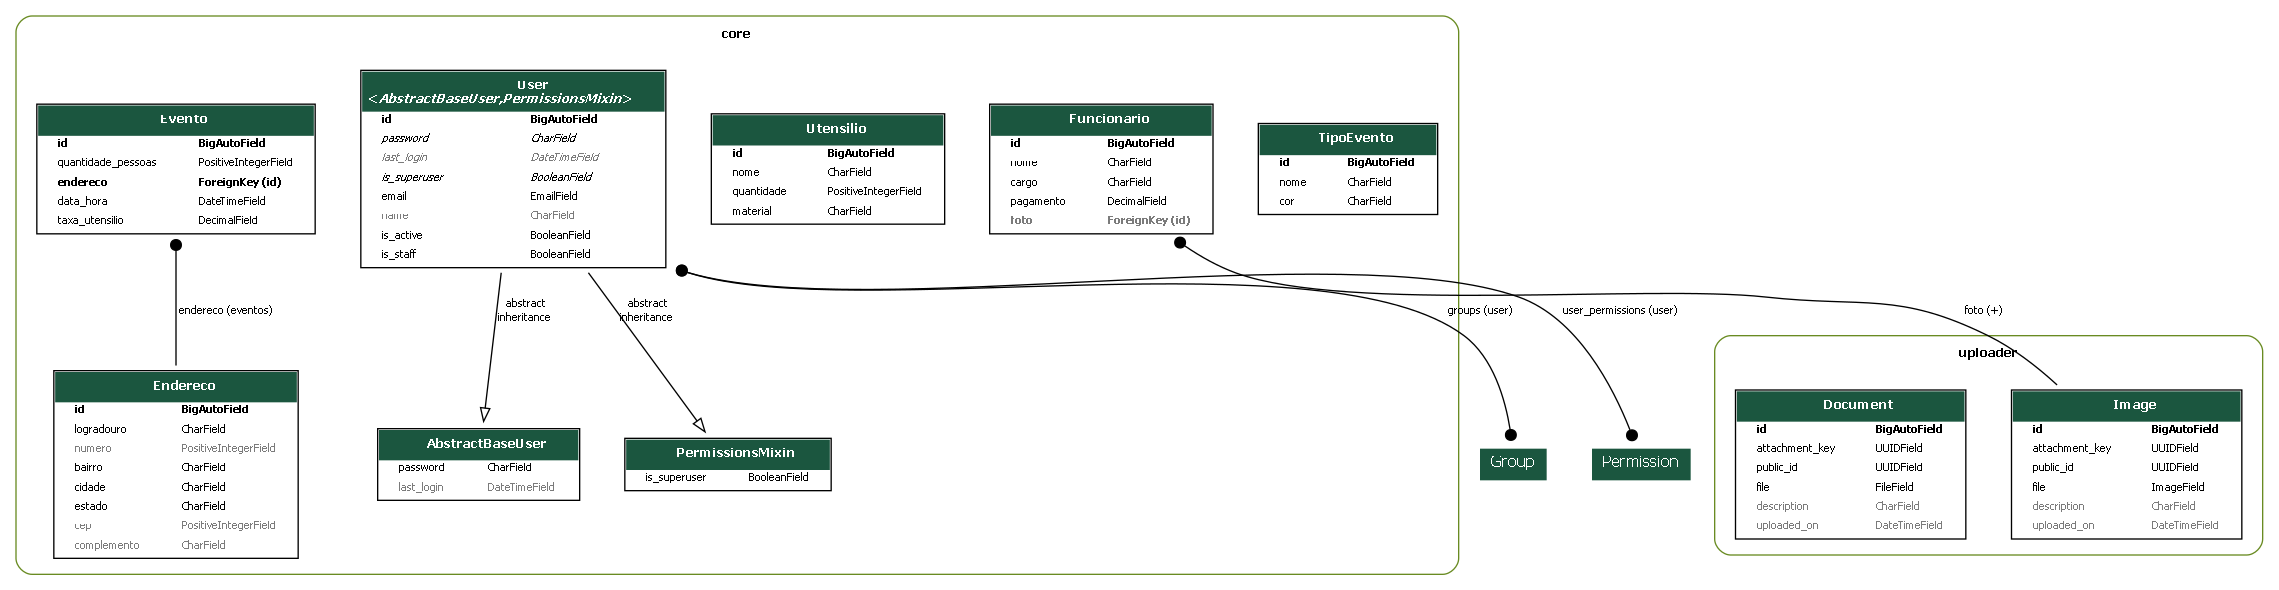
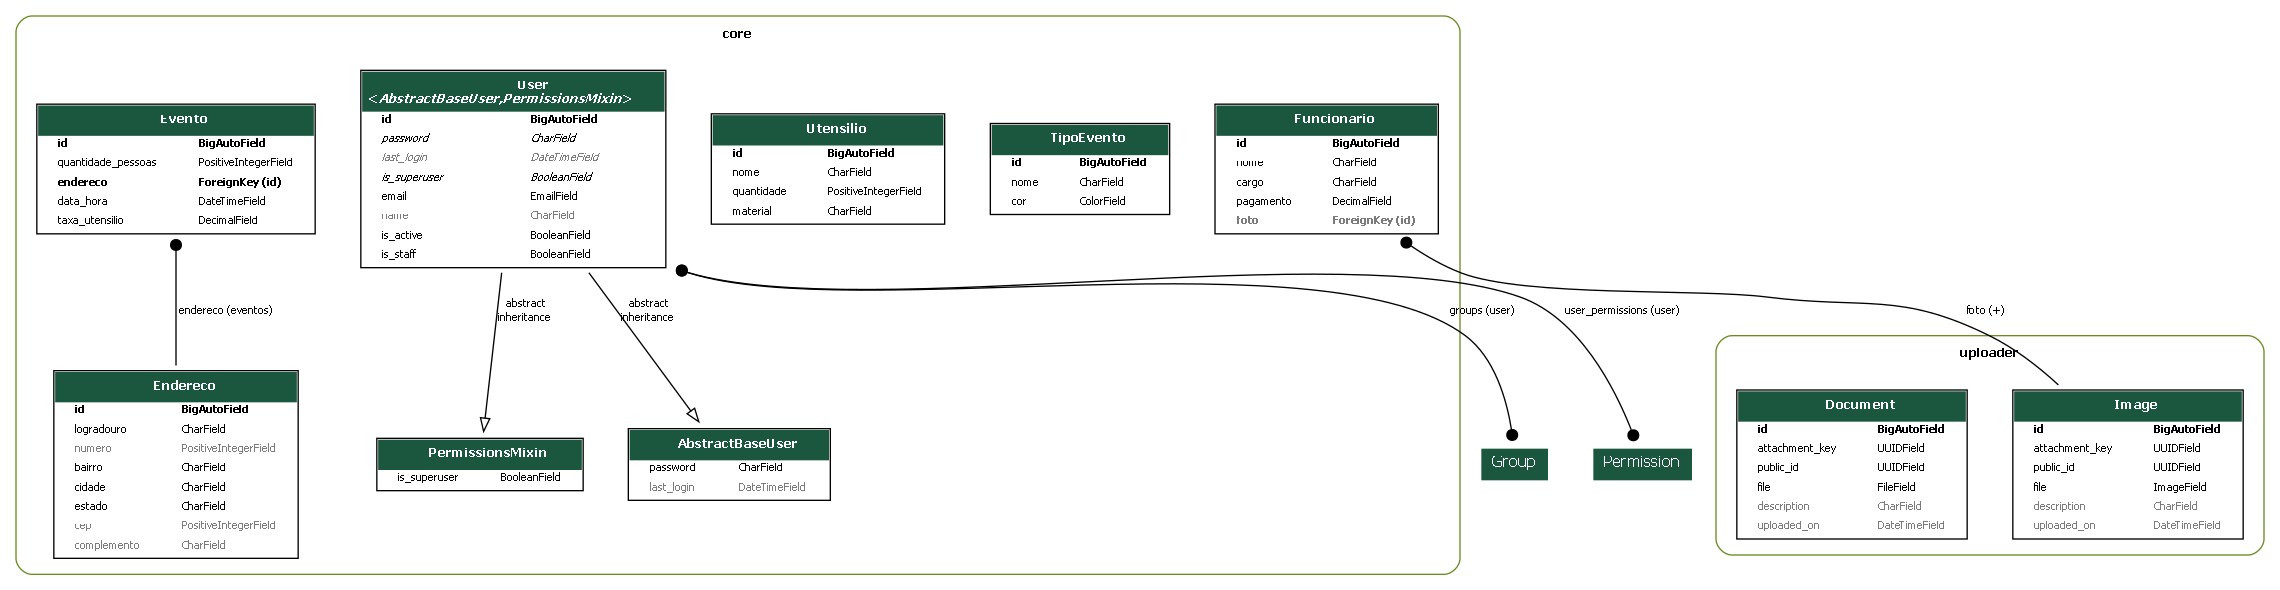
feat: alteração na model equipe evento

diff --git a/core/migrations/0005_alter_tipoevento_cor.py b/core/migrations/0005_alter_tipoevento_cor.py
@@ -1,0 +1,19 @@
+# Generated by Django 5.2.13 on 2026-05-11 16:42
+
+import colorfield.fields
+from django.db import migrations
+
+
+class Migration(migrations.Migration):
+
+    dependencies = [
+        ('core', '0004_tipoevento_alter_endereco_cep'),
+    ]
+
+    operations = [
+        migrations.AlterField(
+            model_name='tipoevento',
+            name='cor',
+            field=colorfield.fields.ColorField(default='#FF0000', image_field=None, max_length=25, samples=None),
+        ),
+    ]

diff --git a/core/models/__init__.py b/core/models/__init__.py
@@ -3,3 +3,4 @@ from .funcionario import Funcionario
 from .utensilio import Utensilio          
 from .tipo_evento import TipoEvento
 from .evento import Endereco, Evento
+from .equipe_evento import EquipeEvento
